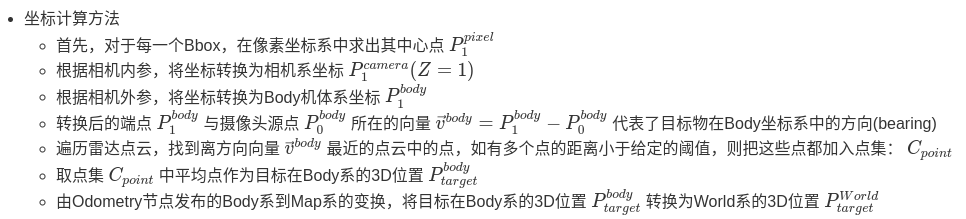
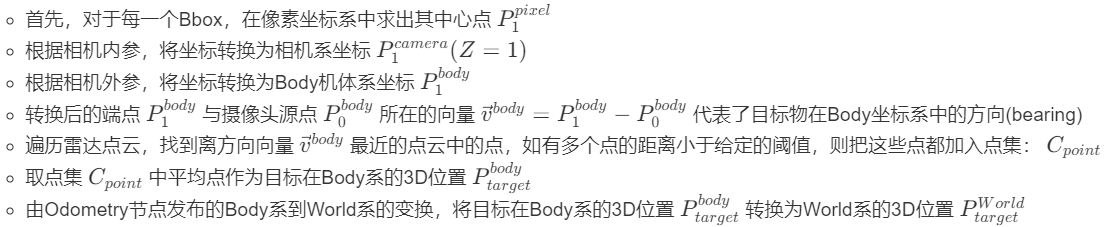
modify latex rendering

Changed region(s): [[0.0, 0.1644, 0.9938, 0.8493], [0.0, 0.8493, 0.9317, 0.9863], [0.0, 0.0274, 0.4969, 0.137]]

diff --git a/README.md b/README.md
@@ -127,7 +127,7 @@ float32[] bbox_conf
   - 转换后的端点 $P^{body}_{1}$ 与摄像头源点 $P^{body}_{0}$ 所在的向量 $\vec{v}^{body} = P^{body}_{1}-P^{body}_{0}$ 代表了目标物在Body坐标系中的方向(bearing)
   - 遍历雷达点云，找到离方向向量 $\vec{v}^{body}$ 最近的点云中的点，如有多个点的距离小于给定的阈值，则把这些点都加入点集： $C_{point}$
   - 取点集 $C_{point}$ 中平均点作为目标在Body系的3D位置 $P^{body}_{target}$
-  - 由Odometry节点发布的Body系到Map系的变换，将目标在Body系的3D位置 $P^{body}_{target}$ 转换为World系的3D位置 $P^{World}_{target}$
+  - 由Odometry节点发布的Body系到World系的变换，将目标在Body系的3D位置 $P^{body}_{target}$ 转换为World系的3D位置 $P^{World}_{target}$
 - Latex渲染错误时请下图参见：
 ![alt text](misp/image_latex.png)
 
